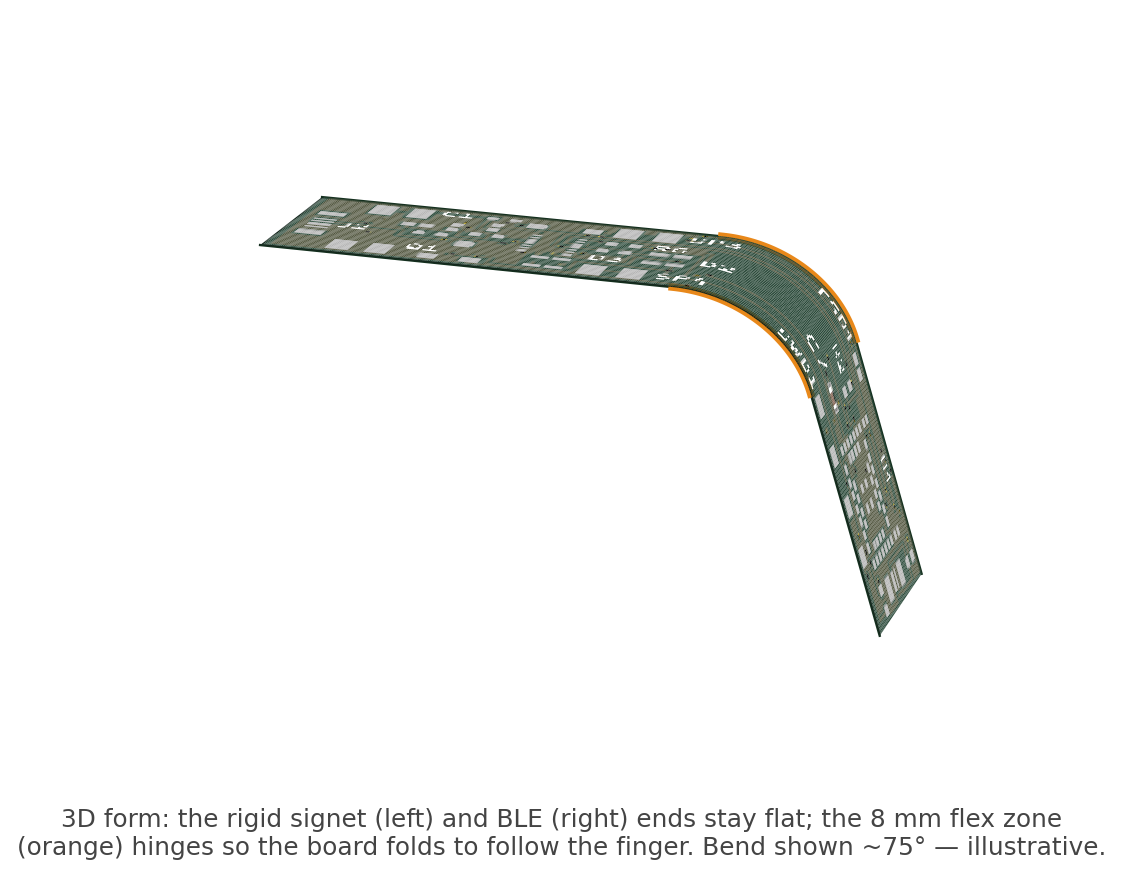
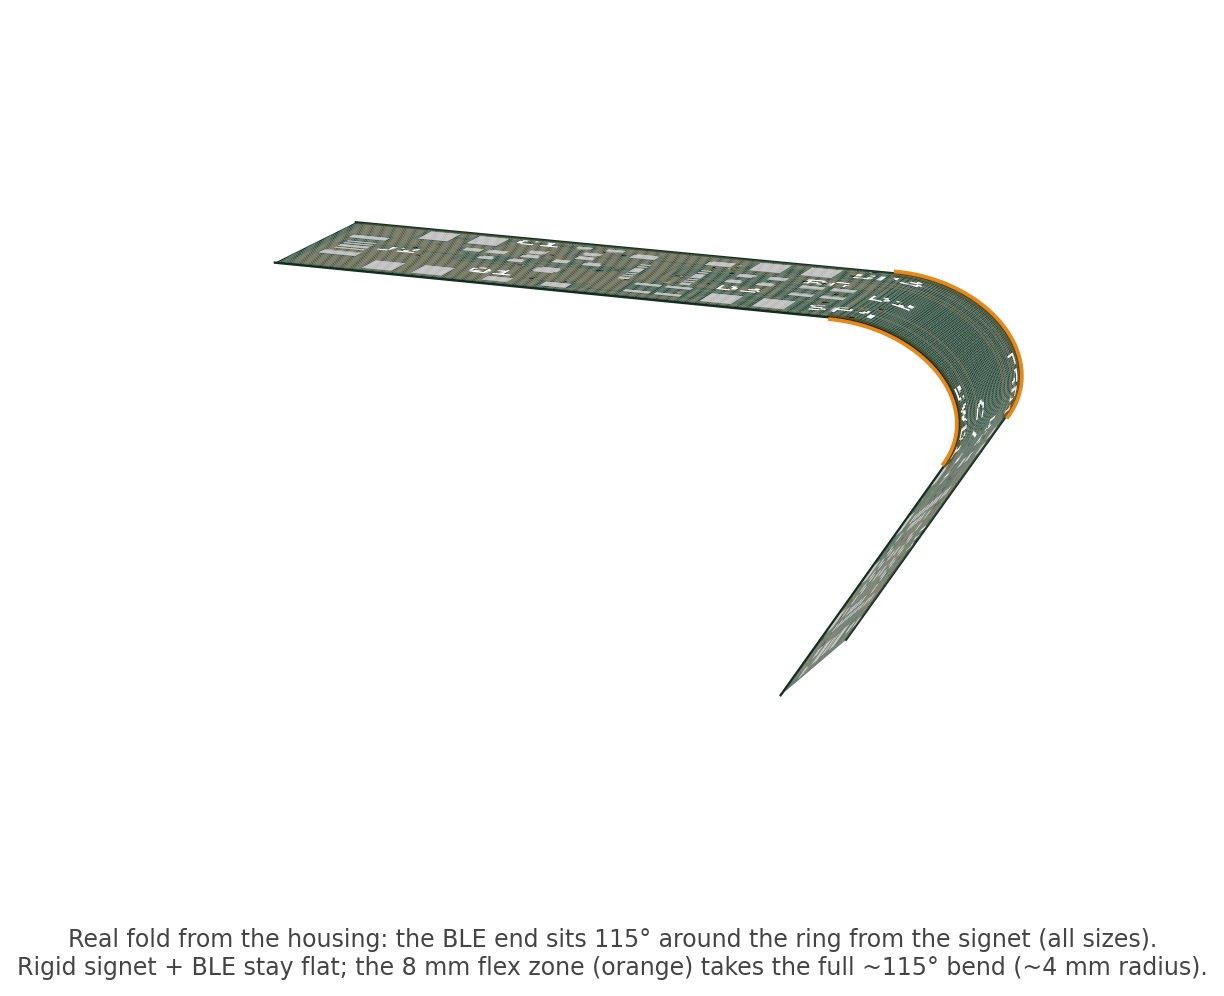
Use the real 115 deg fold from the housing
Pull ble_angle (115 deg, fixed across all ring sizes) from the housing
derive() pipeline instead of the illustrative 75 deg, and re-render. Note
the flex radius (~4 mm) clears the 0.6 mm minimum.

Changed region(s): [[0.2182, 0.2158, 0.8415, 0.7397], [0.0, 0.9247, 0.9973, 0.9863], [0.6233, 0.6781, 0.6545, 0.7089]]

diff --git a/README.md b/README.md
@@ -11,7 +11,10 @@ stick of gum).
 
 The board isn't meant to stay flat. The middle 8 mm is a **flex** section: the
 rigid signet and BLE ends fold relative to each other there, so the board follows
-the curve of the finger inside the housing.
+the curve of the finger inside the housing. In the housing the BLE end sits
+**115°** around the ring from the signet, and the rigid ends stay flat — so the
+8 mm flex takes that whole ~115° bend (about a 4 mm radius, well inside the
+material's 0.6 mm minimum).
 
 ![Rigid-flex bend at the flex zone](preview-3d.png)
 